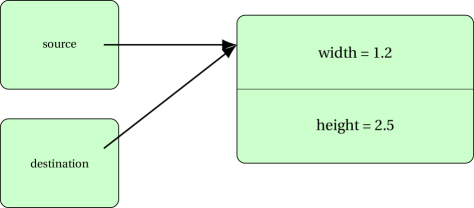
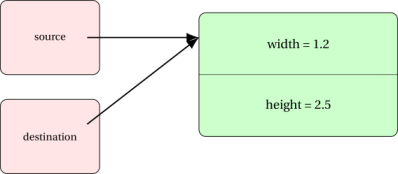
updated lecture 3

diff --git a/_includes/syllabus.html b/_includes/syllabus.html
@@ -3,7 +3,7 @@ Display syllabus in tabular form.
 Days are displayed if at least one episode has 'start = true'.
 {% endcomment %}
 <div class="syllabus">
-    <h2 id="schedule">Schedule</h2>
+    <h2 id="schedule">Lecture Topics</h2>
 
     {% assign lesson_number = 0 %}
     {% assign day = 0 %}
@@ -14,12 +14,15 @@ Days are displayed if at least one episode has 'start = true'.
     {% assign current = site.start_time %}
 
     <table class="table table-striped">
+        {% comment}
         <tr>
             {% if multiday %}<td class="col-md-1"></td>{% endif %}
             <td class="{% if multiday %}col-md-1{% else %}col-md-2{% endif %}"></td>
             <td class="col-md-3"><a href="{{ page.root }}{% link setup.md %}">Setup</a></td>
             <td class="col-md-7"></td>
         </tr>
+        remove comment block to add setup to schedule
+        {% endcomment %}
         {% for collection in site.data.navigation-list.navigation_list %}
         {% assign collection_first_page = collection.links[0] %}
         <tr>
@@ -29,9 +32,4 @@ Days are displayed if at least one episode has 'start = true'.
         </tr>
         {% endfor %}
     </table>
-
-    <p>
-    The actual schedule may vary slightly depending on the topics and exercises chosen by the instructor.
-    </p>
-
 </div>

diff --git a/_collections/_03-classes-and-objects/08-array-of-objects.md b/_collections/_03-classes-and-objects/08-array-of-objects.md
@@ -1,0 +1,102 @@
+---
+title: Array of objects 
+---
+
+# Array of objects
+
+## Class under consideration
+
+We will use the following class for this discussion.
+
+```java
+class Rectangle {
+	private double width, height;	
+	
+	public double getWidth() { 
+    	return width; 
+   	}
+    
+    public void setWidth(double w) { 
+      width = Math.abs(w);
+    }
+    
+   	public double getHeight() { 
+    	return height; 
+   	}
+    
+    public void setHeight(double h) { 
+      height = Math.abs(h);
+    }
+    
+    public Rectangle(double w, double h) {
+    	setWidth(w);
+    	setHeight(h);
+    }
+    
+    public String toString() {
+      return width + " by " + height;
+    }
+}
+```
+
+### Creating an array of objects
+
+#### STEP 1 - Instantiate the array
+
+
+```java
+Rectangle[] blocks = new Rectangle[5];
+```
+
+You can go through each item of the array and display it.
+
+```java
+for(int i=0; i < blocks.length; i++) {
+	System.out.println(blocks[i]);
+}
+```
+
+You'll get the following output:
+
+```
+null
+null
+null
+null
+null
+```
+
+This is because none of the items of the array, each a `Rectangle` object, were instantiated. 
+
+The memory diagram for the current state of the array is
+
+<div>&nbsp;</div> 
+![](./../fig/03-classes-and-objects/array-of-objects-figure0.png) 
+<div>&nbsp;</div>
+
+Hence...
+
+
+#### STEP 2 - Instantiating each object
+
+```java
+for(int i=0; i < blocks.length; i++) {
+	blocks[i] = new Rectangle(i+1, i*2); //instantiate item at index i
+	System.out.println(blocks[i]); //display it
+}
+```
+
+<div>&nbsp;</div> 
+![](./../fig/03-classes-and-objects/array-of-objects-figure1.png) 
+<div>&nbsp;</div>
+
+
+This time, you will get the following output:
+
+```
+1.0 by 0.0
+2.0 by 2.0
+3.0 by 4.0
+4.0 by 6.0
+5.0 by 8.0
+```

diff --git a/_collections/_03-classes-and-objects/06-shallow-and-deep-copy.md b/_collections/_03-classes-and-objects/06-shallow-and-deep-copy.md
@@ -50,6 +50,16 @@ Given that the object `source` holds the reference to the instance, that referen
 ![](./../fig/03-classes-and-objects/shallowCopyDeepCopy-figure0.png)
 <div> &nbsp; </div>
 
+If you change the value of the instance variables of either `source` or `destination`, the other object will be affected.
+
+```java
+destination.setWidth(666.66);
+```
+
+<div> &nbsp; </div>
+![](./../fig/03-classes-and-objects/shallowCopyDeepCopy-figure1.png)
+<div> &nbsp; </div>
+
 ## Deep copy
 
 A **deep copy** is when you create a new instance of a class and copy the contents from another instance.
@@ -62,7 +72,17 @@ destination.setHeight(source.getHeight());
 ```
 
 <div> &nbsp; </div>
-![](./../fig/03-classes-and-objects/shallowCopyDeepCopy-figure1.png)
+![](./../fig/03-classes-and-objects/shallowCopyDeepCopy-figure2.png)
 <div> &nbsp; </div>
 
+If you change the value of the instance variables of either `source` or `destination`, the other object will **NOT** be affected.
+
+```java
+destination.setWidth(888.88);
+```
+
+
+<div> &nbsp; </div>
+![](./../fig/03-classes-and-objects/shallowCopyDeepCopy-figure3.png)
+<div> &nbsp; </div>
 

diff --git a/imageMagick.md b/imageMagick.md
@@ -17,6 +17,12 @@ find ./ -name "*.png" -exec convert {} -scale 50% outputfolder/{} \;
 
 find ./ -name "*.png" -exec convert {} -scale 50% ./{} \;
 
+###Command to trime and scale (by 50%) and overwrite files:
+
+find ./ -name "*.png" -exec convert {} -trim -scale 50% ./{} \;
+
 #####Source of commands:
 
 https://askubuntu.com/questions/351767/how-to-crop-borders-white-spaces-from-image#351772
+
+find ./ -name "shallowCopyDeepCopy*.png" -exec convert {} -scale 70% ./{} \;

diff --git a/index.md b/index.md
@@ -3,4 +3,4 @@ layout: lesson
 root: .
 ---
 
-COMP125 Lecture Material, hosted online, for your convenience :)
+### COMP125 Lecture Material, hosted online, for your convenience!
